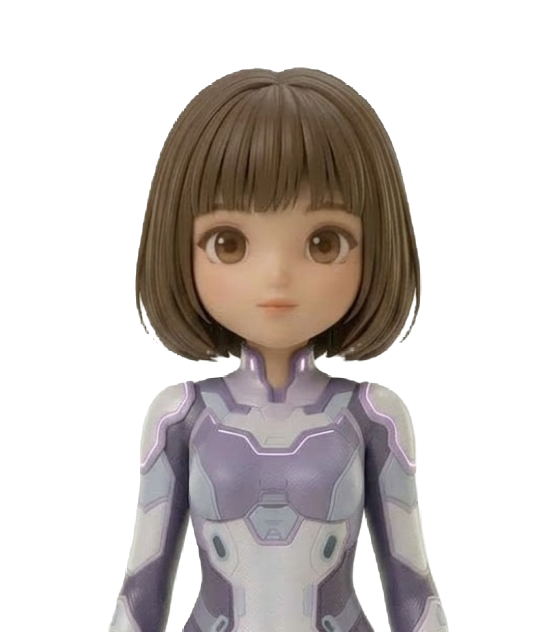
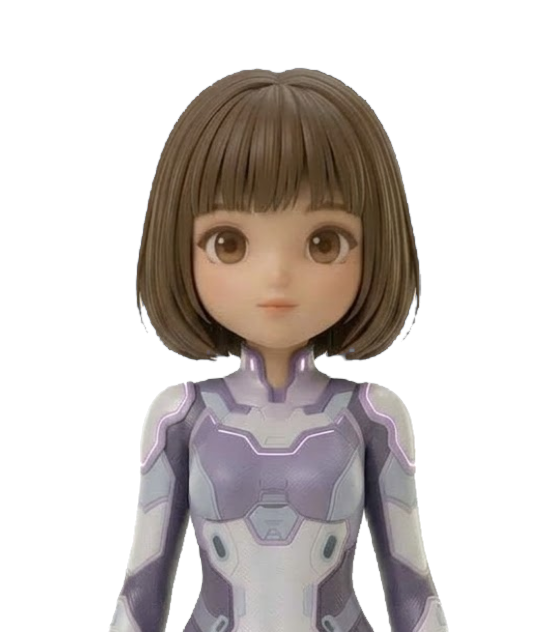
Remove the white fringe around the original character images
The cutouts kept leftover light-gray background from the source photos:
a thin halo on the outline and opaque patches between the arms and the
torso and between the legs.

- Remove background-colored pixels connected to the transparent area
  (unlimited for the futuristic-suit images; limited to a thin edge band
  for the casual ones so the white T-shirt is kept)
- Trim the outline by one pixel, soften it, and un-mix the background
  color from semi-transparent edge pixels
- Bump image/JSON versions so the new images load

Claude-Session: https://claude.ai/code/session_0155KMz4T55VY5MXuYFXQgw5

diff --git a/app.js b/app.js
@@ -1641,7 +1641,7 @@ const presetCache = {};
 function loadPreset(frame, body, outfit) {
     const id = `${frame}-${body}-${outfit}`;
     if (!presetCache[id]) {
-        presetCache[id] = fetch(`characters/${id}.json?v=3`)
+        presetCache[id] = fetch(`characters/${id}.json?v=4`)
             .then((r) => {
                 if (!r.ok) throw new Error(`HTTP ${r.status}`);
                 return r.json();

diff --git a/index.html b/index.html
@@ -450,6 +450,6 @@
         </form>
     </dialog>
 
-    <script type="module" src="app.js?v=36"></script>
+    <script type="module" src="app.js?v=37"></script>
 </body>
 </html>
